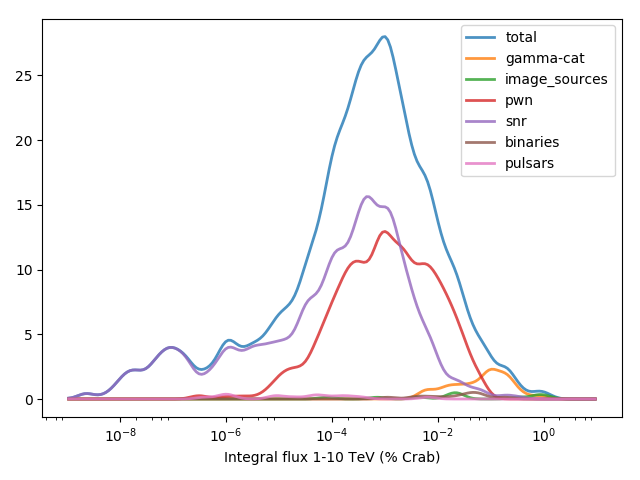
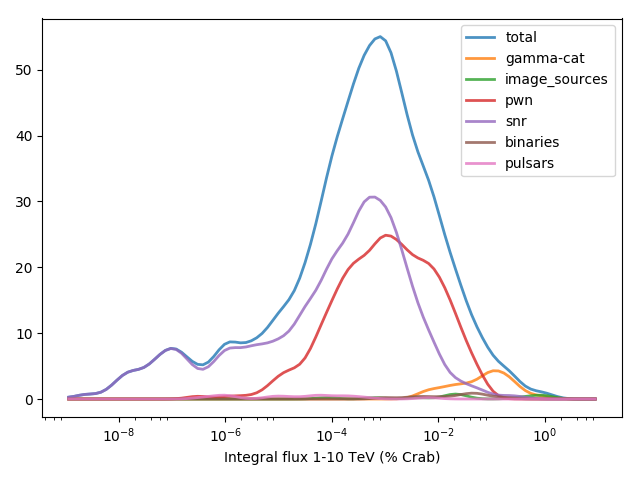
udpate

diff --git a/sky_model_checks/source_parameter_distributions.py b/sky_model_checks/source_parameter_distributions.py
@@ -48,8 +48,11 @@ class Histogram:
     def bin_centers(self):
         return 0.5 * (self.bins[:-1] + self.bins[1:])
 
-    def smooth(self, sigma=1):
-        vals = gaussian_filter1d(self.vals.astype(float), sigma=sigma)
+    def smooth(self, sigma=None):
+        if sigma is None:
+            vals = self.vals
+        else:
+            vals = gaussian_filter1d(self.vals.astype(float), sigma=sigma)
         return self.__class__(bins=self.bins, vals=vals)
 
     def normalise(self, method='max', value=1):
@@ -509,39 +512,41 @@ class GPSSkyModel:
         log.info('Writing {}'.format(filename))
         fig.savefig(filename)
 
-    def get_logn_logs(self):
+    def get_logn_logs(self, quantity):
         crab_1_10 = CrabSpectrum().model.integral(1 * u.TeV, 10 * u.TeV).to('cm-2 s-1').value
-        bins = np.logspace(-9, 1, 200)
+        bins = np.logspace(-9, 1, 100)
 
         hists = []
         for component in self.get_components():
             table = component['table']
             points = table['flux_1_10'] / crab_1_10
             hist = Histogram.from_points(bins=bins, points=points)
+            if quantity == 'int':
+                hist.vals = np.cumsum(hist.vals[::-1])[::-1]
             hists.append(hist)
 
         return HistogramStack(hists)
 
-    def plot_logn_logs(self):
+    def plot_logn_logs(self, quantity, sigma):
         fig, ax = plt.subplots()
 
-        hists = self.get_logn_logs()
+        hists = self.get_logn_logs(quantity)
         kwargs = dict(alpha=0.8, lw=2)
-        hists.total.smooth(sigma=3).plot_smooth(ax, label='total', **kwargs)
+        hists.total.smooth(sigma=sigma).plot_smooth(ax, label='total', **kwargs)
         for tag, hist in zip(self.tags, hists.hists):
-            hist.smooth(sigma=3).plot_smooth(ax, label=tag, **kwargs)
+            hist.smooth(sigma=sigma).plot_smooth(ax, label=tag, **kwargs)
 
         ax.set_xlabel('Integral flux 1-10 TeV (% Crab)')
         ax.semilogx()
         ax.legend(loc='best')
         fig.tight_layout()
-        filename = 'ctadc_skymodel_gps_sources_logn_logs_diff.png'
+        filename = 'ctadc_skymodel_gps_sources_logn_logs_{}.png'.format(quantity)
         log.info('Writing {}'.format(filename))
         fig.savefig(filename)
 
         ax.loglog()
         fig.tight_layout()
-        filename = 'ctadc_skymodel_gps_sources_logn_logs_diff_logscale.png'
+        filename = 'ctadc_skymodel_gps_sources_logn_logs_{}_logscale.png'.format(quantity)
         log.info('Writing {}'.format(filename))
         fig.savefig(filename)
 
@@ -611,8 +616,8 @@ if __name__ == '__main__':
     # gps.print_summary()
 
     # gps.plot_sky_positions()
-    gps.plot_glon_distribution()
-    gps.plot_glat_distribution()
+    # gps.plot_glon_distribution()
+    # gps.plot_glat_distribution()
 
     # gps.plot_size_distribution()
     # gps.plot_physical_size_distribution()
@@ -624,5 +629,7 @@ if __name__ == '__main__':
     # gps.plot_galactic_z()
     # gps.plot_galactic_r()
 
-    gps.plot_logn_logs()
+    gps.plot_logn_logs(quantity='diff', sigma=2)
+    gps.plot_logn_logs(quantity='int', sigma=None)
+
     # gps.plot_all_spectral_models()

diff --git a/sky_model_checks/README.md b/sky_model_checks/README.md
@@ -43,10 +43,14 @@ image_sources        11 6.27654769846e-11
     [ctadc_skymodel_gps_sources_size_snr_check.png](ctadc_skymodel_gps_sources_size_snr_check.png)
   * There is no bug. The fact that there are only few SNRs with small angular size is a result
     of Pierre's model, which contains very few SNRs with small physical size, i.e. below 10 pc.
-* logN-logS: [logN_logS_gammalib.png](logN_logS_gammalib.png)
+* logN-logS:
   * Differential (linear in y-axis): [ctadc_skymodel_gps_sources_logn_logs_diff.png](ctadc_skymodel_gps_sources_logn_logs_diff.png)
   * Differential (log in y-axis): [ctadc_skymodel_gps_sources_logn_logs_diff_logscale.png](ctadc_skymodel_gps_sources_logn_logs_diff_logscale.png)
-  * Integral: todo
+  * Integral (linear in y-axis): [ctadc_skymodel_gps_sources_logn_logs_int.png](ctadc_skymodel_gps_sources_logn_logs_int.png)
+  * Integral (log in y-axis): [ctadc_skymodel_gps_sources_logn_logs_int_logscale.png](ctadc_skymodel_gps_sources_logn_logs_int_logscale.png)
+  * Another version, from one of Roberta's scripts: [logN_logS_gammalib.png](logN_logS_gammalib.png)
+* logF-logS:
+  * TODO
 * Source size vs flux
 
 ### Spectra
